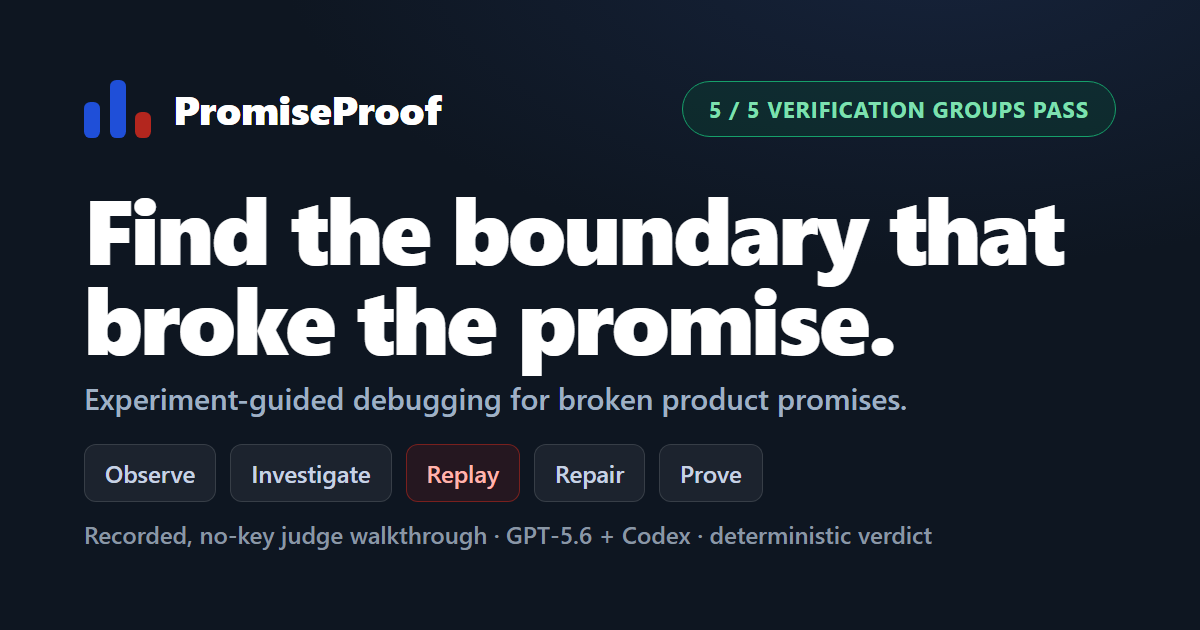
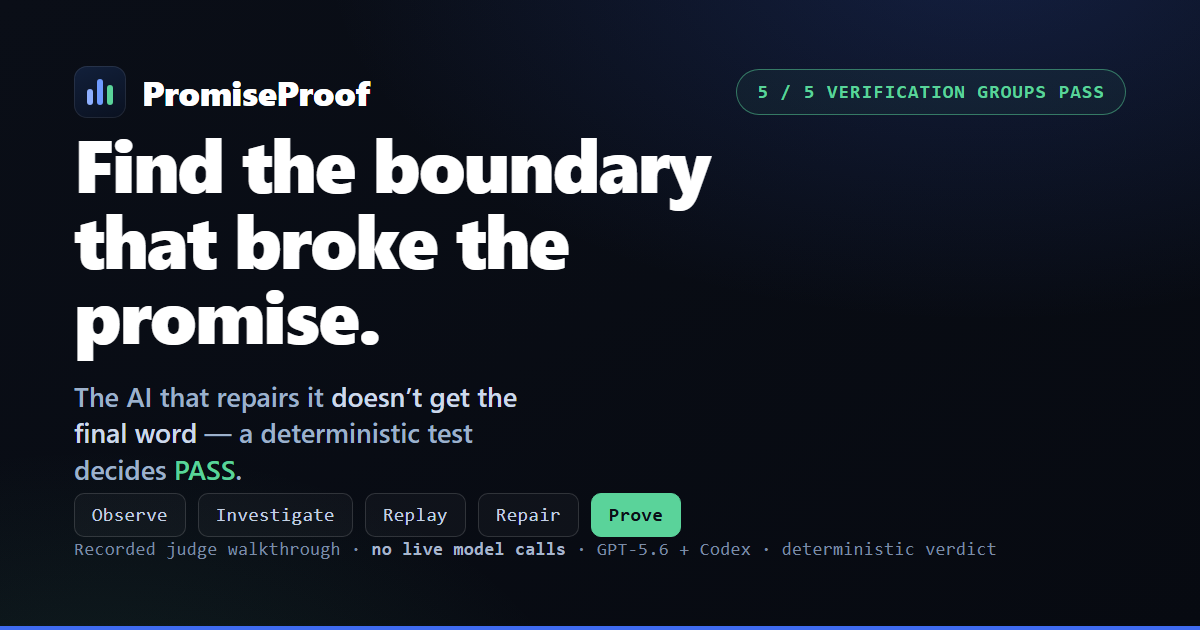
polish landing copy, a11y and og card
- gpt-5.6 proposes/ranks the causes; only the replays are allowlisted
- contrast bumps to AA, a main landmark, skip link and stage focus ring
- replay no longer auto-plays under reduced motion
- new og card copy

Changed region(s): [[0.0617, 0.1206, 0.8942, 0.9048], [0.0, 0.9952, 1.0, 1.0], [0.5858, 0.1206, 0.925, 0.2111]]

diff --git a/landing/index.html b/landing/index.html
@@ -46,6 +46,8 @@ header{position:fixed;top:0;left:0;right:0;z-index:90;backdrop-filter:blur(10px)
 .btn{display:inline-flex;align-items:center;gap:8px;padding:9px 16px;border-radius:999px;font-weight:650;font-size:.86rem;cursor:pointer;border:1px solid transparent;transition:transform .15s,background .15s,border-color .15s}
 .btn-primary{background:var(--blue);color:#fff}.btn-primary:hover{background:#3560e0;transform:translateY(-1px)}
 .btn-ghost{border-color:rgba(255,255,255,.16);color:#dbe4f2}.btn-ghost:hover{border-color:rgba(255,255,255,.4);background:rgba(255,255,255,.04)}
+.skip-link{position:absolute;left:-9999px;top:0;z-index:200;background:var(--blue);color:#fff;padding:10px 16px;border-radius:0 0 8px 0;font-weight:650;font-size:.9rem}
+.skip-link:focus{left:0}
 .ext::after{content:"\2197";font-size:.9em;opacity:.8}
 :focus-visible{outline:2px solid var(--blue-bright);outline-offset:3px;border-radius:6px}
 
@@ -90,7 +92,7 @@ html.js .hero .eyebrow{animation-delay:.05s}html.js .hero h1{animation-delay:.16
 .hcard-repro .cmd{color:#e8edf6}.hcard-repro .cmd .p{color:var(--blue-bright)}
 .hcard-repro .res{color:var(--green-bright);font-weight:700}
 .hcard-repro .rn{color:#7f8da3;font-size:.77rem}
-.hcard-prov{border-top:1px solid rgba(255,255,255,.06);padding:11px 24px;font-family:var(--mono);font-size:.68rem;color:#6a7a92;letter-spacing:.02em}
+.hcard-prov{border-top:1px solid rgba(255,255,255,.06);padding:11px 24px;font-family:var(--mono);font-size:.68rem;color:#7c8ca6;letter-spacing:.02em}
 .hcard-prov b{color:#9db4d0;font-weight:600}
 .cmp-sub{margin-top:14px;text-align:center;font-size:.98rem;color:#93a1b8;max-width:60ch;margin-left:auto;margin-right:auto}
 .light .cmp-sub{color:#48566b}
@@ -123,16 +125,16 @@ html.js [data-reveal].in{opacity:1;transform:none;filter:none}
 .pcard:hover{transform:translateY(-4px);box-shadow:0 18px 40px -22px rgba(11,18,32,.4)}
 .pcard h3{font-size:1.15rem;letter-spacing:-.01em}
 .pcard p{margin-top:8px;color:#4a5568;font-size:.98rem}
-.pcard .tag{font-family:var(--mono);font-size:.68rem;letter-spacing:.09em;text-transform:uppercase;color:#8a93a3}
+.pcard .tag{font-family:var(--mono);font-size:.68rem;letter-spacing:.09em;text-transform:uppercase;color:#6b7180}
 .pcard.bad{border-color:rgba(229,72,77,.3);background:linear-gradient(180deg,#fff,#fff6f6)}
 .track{margin-top:24px;position:relative;display:grid;grid-template-columns:1fr auto 1fr;align-items:stretch;border:1px solid var(--paperline);border-radius:14px;overflow:hidden;background:#fff}
 .track::before{content:"";position:absolute;top:50%;left:9%;right:9%;height:2px;background:#e7ebf2;transform:translateY(-50%)}
 .zone{padding:22px 22px;display:flex;flex-direction:column;gap:6px;justify-content:center;position:relative;z-index:2}
-.zone .zk{font-family:var(--mono);font-size:.6rem;letter-spacing:.12em;text-transform:uppercase;color:#8a93a3}
+.zone .zk{font-family:var(--mono);font-size:.6rem;letter-spacing:.12em;text-transform:uppercase;color:#6b7180}
 .zone .zv{font-size:1.02rem;font-weight:700;color:var(--ink)}
 .zone.leak{background:#fff6f6}.zone.leak .zv{color:var(--red-deep)}
 .gate{width:0;border-left:2px dashed #cfd6e2;position:relative;z-index:3}
-.gate .gl{position:absolute;top:10px;left:50%;transform:translateX(-50%);white-space:nowrap;font-family:var(--mono);font-size:.54rem;letter-spacing:.1em;text-transform:uppercase;color:#8a93a3;background:#fff;padding:3px 7px;border-radius:5px;border:1px solid var(--paperline)}
+.gate .gl{position:absolute;top:10px;left:50%;transform:translateX(-50%);white-space:nowrap;font-family:var(--mono);font-size:.54rem;letter-spacing:.1em;text-transform:uppercase;color:#6b7180;background:#fff;padding:3px 7px;border-radius:5px;border:1px solid var(--paperline)}
 .packet{position:absolute;top:50%;left:9%;width:11px;height:11px;margin-top:-6px;border-radius:50%;background:var(--red);box-shadow:0 0 10px 2px rgba(229,72,77,.5);z-index:4;animation:travel 3.4s cubic-bezier(.55,0,.5,1) infinite}
 @keyframes travel{0%{left:9%;opacity:0;transform:scale(.5)}9%{opacity:1;transform:scale(1)}58%{left:83%;opacity:1}70%{left:83%;transform:scale(1.3)}84%{left:83%;opacity:.5}100%{left:83%;opacity:0}}
 
@@ -179,7 +181,7 @@ html.js [data-reveal].in{opacity:1;transform:none;filter:none}
 .plainproof b{color:var(--ink)}
 
 .reveal-more{margin-top:40px;border-top:1px solid var(--paperline);padding-top:34px}
-.reveal-more .rm-tag{font-family:var(--mono);font-size:.7rem;letter-spacing:.1em;text-transform:uppercase;color:#8a93a3}
+.reveal-more .rm-tag{font-family:var(--mono);font-size:.7rem;letter-spacing:.1em;text-transform:uppercase;color:#6b7180}
 .receipt{margin-top:18px;display:grid;grid-template-columns:1.15fr .85fr;gap:20px}
 @media(max-width:820px){.receipt{grid-template-columns:1fr}.bigcompare{max-width:none}}
 .term{background:#0b111c;border:1px solid rgba(255,255,255,.1);border-radius:14px;overflow:hidden;font-family:var(--mono);font-size:.8rem;box-shadow:0 24px 60px -34px rgba(0,0,0,.5)}
@@ -188,11 +190,11 @@ html.js [data-reveal].in{opacity:1;transform:none;filter:none}
 .term-bar .d.r{background:#e5484d}.term-bar .d.y{background:#e0a63b}.term-bar .d.g{background:#2fa968}
 .term-bar .tt{margin-left:8px}
 .term-body{padding:16px;color:#c8d3e6;line-height:1.7;overflow-x:auto}
-.term-body .del{color:#ff9296}.term-body .add{color:var(--green-bright)}.term-body .mut{color:#5f6f88}.term-body .file{color:#8fb0ff}
+.term-body .del{color:#ff9296}.term-body .add{color:var(--green-bright)}.term-body .mut{color:#7d8ca6}.term-body .file{color:#8fb0ff}
 .term-body .fail{color:#ff8f93;font-weight:700}.term-body .pass{color:var(--green-bright);font-weight:700}
 .rmeta{display:flex;flex-direction:column;gap:12px}
 .rcard{border:1px solid var(--paperline);border-radius:12px;background:#fff;padding:15px 17px}
-.rcard .rk{font-family:var(--mono);font-size:.62rem;letter-spacing:.09em;text-transform:uppercase;color:#8a93a3}
+.rcard .rk{font-family:var(--mono);font-size:.62rem;letter-spacing:.09em;text-transform:uppercase;color:#6b7180}
 .rcard .rv{margin-top:5px;font-family:var(--mono);font-size:.8rem;color:var(--ink);word-break:break-all;line-height:1.5}
 .matrix{margin-top:10px;width:100%;border-collapse:collapse;font-size:.88rem}
 .matrix td{padding:8px 4px;border-bottom:1px solid var(--paperline);color:#4a5568}
@@ -218,9 +220,9 @@ footer{border-top:1px solid rgba(255,255,255,.08);padding:54px 0 40px;color:#879
 .foot-brand .brand{color:#dce4f2;margin-bottom:14px}
 .foot-tag{max-width:34ch;line-height:1.5;color:#9aa8bf}
 .foot-col{display:flex;flex-direction:column;gap:11px}
-.foot-h{font-family:var(--mono);font-size:.64rem;letter-spacing:.12em;text-transform:uppercase;color:#66748c;margin-bottom:3px}
+.foot-h{font-family:var(--mono);font-size:.64rem;letter-spacing:.12em;text-transform:uppercase;color:#7d8ba1;margin-bottom:3px}
 .foot-col a{color:#b7c2d4;transition:color .15s}.foot-col a:hover{color:#fff}
-.foot-note{margin-top:34px;padding-top:22px;border-top:1px solid rgba(255,255,255,.06);color:#66748c;font-size:.8rem;line-height:1.6}
+.foot-note{margin-top:34px;padding-top:22px;border-top:1px solid rgba(255,255,255,.06);color:#7d8ba1;font-size:.8rem;line-height:1.6}
 
 @media(max-width:820px){
   .prob-grid,.roles{grid-template-columns:1fr}
@@ -246,6 +248,8 @@ footer{border-top:1px solid rgba(255,255,255,.08);padding:54px 0 40px;color:#879
 <body>
 <script>document.documentElement.className+=" js";</script>
 
+<a class="skip-link" href="#main">Skip to content</a>
+
 <div class="progress" id="prog"></div>
 
 <header>
@@ -259,11 +263,13 @@ footer{border-top:1px solid rgba(255,255,255,.08);padding:54px 0 40px;color:#879
   </div>
 </header>
 
+<main id="main">
+
 <section class="hero">
   <div class="wrap">
     <span class="eyebrow"><span class="dot"></span> A user turned personalization off. One identifiable request still crossed.</span>
     <h1 class="hero-h">When software breaks a promise, the AI that repairs it <span class="g">doesn't get the final word.</span></h1>
-    <p class="hero-sub">PromiseProof turns one "off means off" promise into cross-system evidence. GPT-5.6 ranks registered explanations and selects one bounded replay; PromiseProof runs it. Codex proposes a constrained two-file repair, a human approves the exact patch, and an unchanged Playwright journey and deterministic evaluator, <b>never a model</b>, decide PASS.</p>
+    <p class="hero-sub">PromiseProof turns one "off means off" promise into cross-system evidence. GPT-5.6 proposes and ranks candidate explanations, then requests one allowlisted replay; PromiseProof runs it. Codex proposes a constrained two-file repair, a human approves the exact patch, and an unchanged Playwright journey and deterministic evaluator, <b>never a model</b>, decide PASS.</p>
     <p class="hero-contrast">Monitoring can tell you a promise broke. PromiseProof carries the failure through bounded diagnosis, constrained repair, and independent verification.</p>
     <div class="hero-cta">
       <a class="btn btn-primary ext" href="/walkthrough/">Open the walkthrough</a>
@@ -340,7 +346,7 @@ footer{border-top:1px solid rgba(255,255,255,.08);padding:54px 0 40px;color:#879
       <div class="role approve d1" data-reveal>
         <div class="num"><svg viewBox="0 0 24 24" fill="none" stroke="currentColor" stroke-width="2" stroke-linecap="round" stroke-linejoin="round" aria-hidden="true"><circle cx="10.5" cy="10.5" r="6.5"/><path d="M15.5 15.5L21 21"/></svg></div><div class="who">GPT-5.6, bounded</div>
         <h3>Find where it broke</h3>
-        <p>When the promise fails, GPT-5.6 reads the recorded evidence and ranks a short, fixed list of possible causes it is allowed to choose from, without changing anything. It then asks for exactly one controlled replay, which PromiseProof runs, showing which layer actually broke, UI, storage, network or backend. It investigates; it never gets the verdict.</p>
+        <p>When the promise fails, GPT-5.6 reads the recorded evidence and proposes a short, ranked list of possible causes, without changing anything. It then asks for exactly one replay from a fixed allowlist, which PromiseProof runs, showing which layer actually broke, UI, storage, network or backend. It investigates; it never gets the verdict.</p>
       </div>
       <div class="role decide d2" data-reveal>
         <div class="num"><svg viewBox="0 0 24 24" fill="none" stroke="currentColor" stroke-width="2" stroke-linecap="round" stroke-linejoin="round" aria-hidden="true"><path d="M12 3l7 2.5v5.5c0 4.2-2.9 7-7 8.5-4.1-1.5-7-4.3-7-8.5V5.5z"/><path d="M9 12l2 2 4-4"/></svg></div><div class="who">A fixed test</div>
@@ -447,9 +453,9 @@ footer{border-top:1px solid rgba(255,255,255,.08);padding:54px 0 40px;color:#879
     <h2 data-reveal>The things a skeptic asks first.</h2>
     <div class="faq">
       <details class="qa" data-reveal><summary>What counts as a promise?<span class="pl">+</span></summary><div class="ans">A promise is any guarantee your software makes to users that you can express as a check, like "off means off" or "deleted means deleted." PromiseProof runs that check against a real browser journey and its network traffic, so the promise is judged by what actually happened, not by what a model claims. This prototype demonstrates one such promise, "off means off," across UI, storage, network and backend state. Its demo app also carries a second, independent fault that violates a different clause of the same promise, with its own distinct failure signature.</div></details>
-      <details class="qa" data-reveal><summary>How do I know the verdict isn't just the AI's opinion?<span class="pl">+</span></summary><div class="ans">Because the AI never gives the verdict. An unchanged Playwright journey and a fixed evaluator run the check against reproducible evidence and return PASS or FAIL. GPT-5.6 only investigates, read only, ranking a set of registered candidate causes; if a fix is needed a human approves the exact patch by its fingerprint; the test alone decides the promise is kept.</div></details>
+      <details class="qa" data-reveal><summary>How do I know the verdict isn't just the AI's opinion?<span class="pl">+</span></summary><div class="ans">Because the AI never gives the verdict. An unchanged Playwright journey and a fixed evaluator run the check against reproducible evidence and return PASS or FAIL. GPT-5.6 only investigates, read only, proposing and ranking candidate causes and requesting one replay from a fixed allowlist; if a fix is needed a human approves the exact patch by its fingerprint; the test alone decides the promise is kept.</div></details>
       <details class="qa" data-reveal><summary>Is the run real, or cached?<span class="pl">+</span></summary><div class="ans">The diagnosis is a recorded authentic GPT-5.6 run through OpenAI's Responses API. The repair is a recorded authentic Codex SDK run, version 0.144.4, one Codex turn, with a logged thread id and the approved patch's fingerprint. It happened once. The offline command replays that recorded evidence and re-runs the check, so the verdict is deterministically reproducible. The repository fingerprints the retained artifacts and verifies their internal consistency against the approved patch and verification receipts; this is repository-level integrity evidence, not third-party provider attestation.</div></details>
-      <details class="qa" data-reveal><summary>What if GPT-5.6's diagnosis is wrong?<span class="pl">+</span></summary><div class="ans">It does not change the verdict. GPT-5.6 only proposes a cause and runs one registered replay, which supports or weakens that guess with recorded evidence. The unchanged test decides pass or fail on its own. If the diagnosis had been wrong, the approved fix would not have taken the check from FAIL to PASS, and the test would still say FAIL. A wrong guess cannot fake a passing result.</div></details>
+      <details class="qa" data-reveal><summary>What if GPT-5.6's diagnosis is wrong?<span class="pl">+</span></summary><div class="ans">It does not change the verdict. GPT-5.6 only proposes a cause and requests one allowlisted replay, which deterministic code runs to support or weaken that guess with recorded evidence. The unchanged test decides pass or fail on its own. If the diagnosis had been wrong, the approved fix would not have taken the check from FAIL to PASS, and the test would still say FAIL. A wrong guess cannot fake a passing result.</div></details>
     </div>
   </div>
 </section>
@@ -465,6 +471,8 @@ footer{border-top:1px solid rgba(255,255,255,.08);padding:54px 0 40px;color:#879
     </div>
   </div>
 </section>
+
+</main>
 
 <footer>
   <div class="wrap">

diff --git a/src/judge/styles.css b/src/judge/styles.css
@@ -76,16 +76,22 @@ pre {
     transition-duration: 0.001ms !important;
     scroll-behavior: auto !important;
   }
-  /* Exception: the boundary crossing is user-triggered ("Play the crossing"),
-     an explicit request for motion, so it keeps its choreography even here. */
-  .ppa-spine { animation-duration: 0.8s !important; }
-  .ppa-e1 { animation-duration: 0.5s !important; }
-  .ppa-dot { animation-duration: 0.4s !important; }
-  .ppa-line { animation-duration: 0.4s !important; }
-  .ppa-e2 { animation-duration: 0.5s, 0.9s !important; }
-  .ppa-arrow { animation-duration: 0.3s !important; }
-  .ppa-e3 { animation-duration: 0.5s !important; }
-  .ppa-finding { animation-duration: 0.6s !important; }
+  /* Exception: only when the viewer explicitly clicks "Play the crossing"
+     (which sets data-replaying on the slot) does the choreography run under
+     reduced motion. On stage entry it stays still, so the preference is honored
+     and the crossing snaps to its final revealed state (animations fill both). */
+  [data-replaying] .ppa-spine { animation-duration: 0.8s !important; }
+  [data-replaying] .ppa-e1 { animation-duration: 0.5s !important; }
+  [data-replaying] .ppa-dot { animation-duration: 0.4s !important; }
+  [data-replaying] .ppa-line { animation-duration: 0.4s !important; }
+  [data-replaying] .ppa-e2 { animation-duration: 0.5s, 0.9s !important; }
+  [data-replaying] .ppa-arrow { animation-duration: 0.3s !important; }
+  [data-replaying] .ppa-e3 { animation-duration: 0.5s !important; }
+  [data-replaying] .ppa-finding { animation-duration: 0.6s !important; }
+
+  /* On stage entry (not an explicit replay) collapse the crossing's stagger too,
+     so it lands fully revealed at once instead of popping in over ~1.65s. */
+  .replay-slot:not([data-replaying]) .ppa { animation-delay: 0s !important; }
 }
 
 /* ------------------------------ shell ------------------------------ */
@@ -295,6 +301,14 @@ pre {
   padding: clamp(20px, 2.3vw, 28px);
   outline: none;
   min-height: 0;
+}
+
+/* When the host moves focus here after Prev/Next via the keyboard, give a
+   keyboard-only ring so the user can see where they landed (mouse focus, which
+   does not match :focus-visible, stays ring-free). */
+.judge-stage:focus-visible {
+  outline: 2px solid var(--blue);
+  outline-offset: 3px;
 }
 
 /* Shown only until JS renders the first stage (and if the bundle never loads),
@@ -1330,7 +1344,19 @@ pre {
 }
 
 .flight-recorder-compact {
-  display: none;
+  /* Visually hidden but kept in the accessibility tree: the painted recorder
+     above is aria-hidden, so this sr-only copy is how desktop screen-reader
+     users reach the three timeline events. Below 820px it becomes the visible
+     timeline (the reset in that block restores normal flow). */
+  position: absolute;
+  width: 1px;
+  height: 1px;
+  margin: -1px;
+  padding: 0;
+  border: 0;
+  overflow: hidden;
+  clip: rect(0, 0, 0, 0);
+  white-space: nowrap;
   flex-direction: column;
   gap: 8px;
 }
@@ -2328,6 +2354,13 @@ pre {
   }
 
   .flight-recorder-compact {
+    position: static;
+    width: auto;
+    height: auto;
+    margin: 0;
+    overflow: visible;
+    clip: auto;
+    white-space: normal;
     display: flex;
   }
 

diff --git a/src/judge/main.ts b/src/judge/main.ts
@@ -659,16 +659,24 @@ function renderReplay(data: JudgeData): HTMLElement {
 
   // The reveal is a fresh CSS animation on mount, so re-rendering these nodes
   // replays it on demand — the crossing is the one moment judges should see move.
+  // `data-replaying` marks the explicit "Play the crossing" click: under
+  // prefers-reduced-motion the crossing stays still on stage entry (honoring the
+  // preference) and only animates when the user actually asks for it.
   const slot = element("div", "replay-slot");
-  const fill = (): void => {
+  const fill = (replaying: boolean): void => {
+    if (replaying) {
+      slot.dataset.replaying = "true";
+    } else {
+      delete slot.dataset.replaying;
+    }
     slot.replaceChildren(
       renderFlightRecorder(data),
       renderFlightRecorderCompact(data),
       renderReplayFinding(data),
     );
   };
-  fill();
-  playAgain.addEventListener("click", fill);
+  fill(false);
+  playAgain.addEventListener("click", () => fill(true));
   section.append(slot);
   return section;
 }
